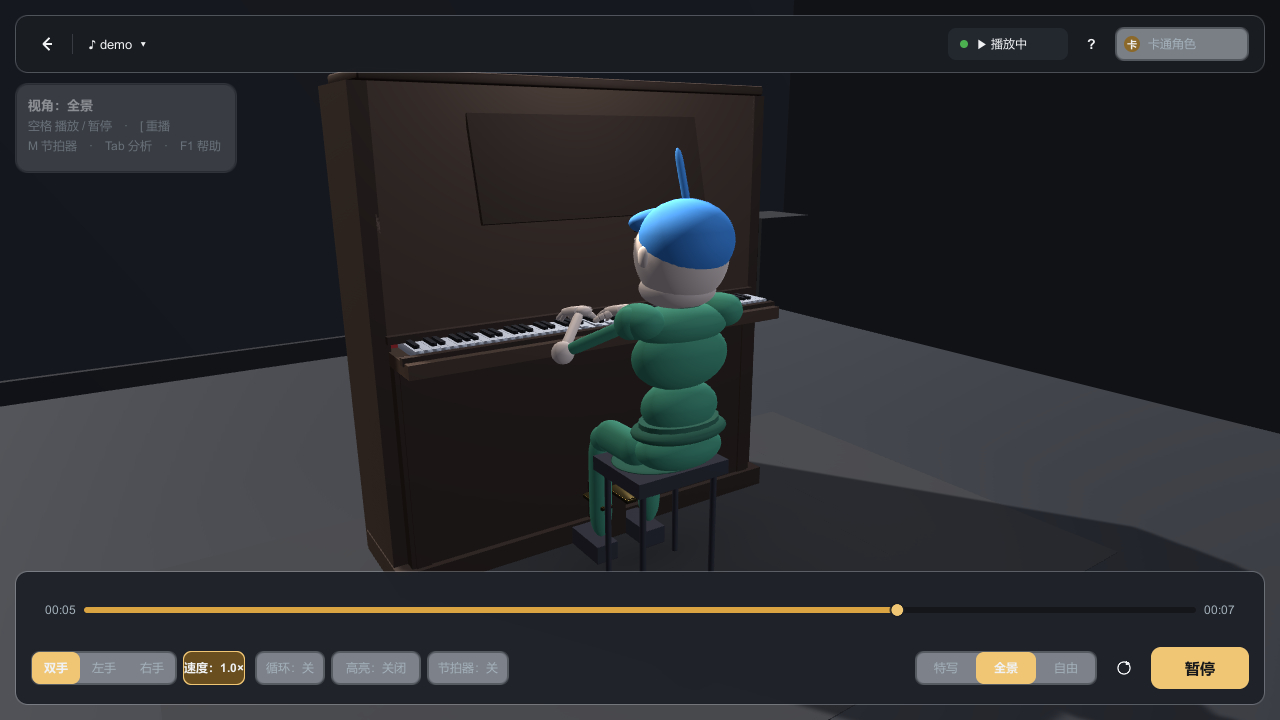
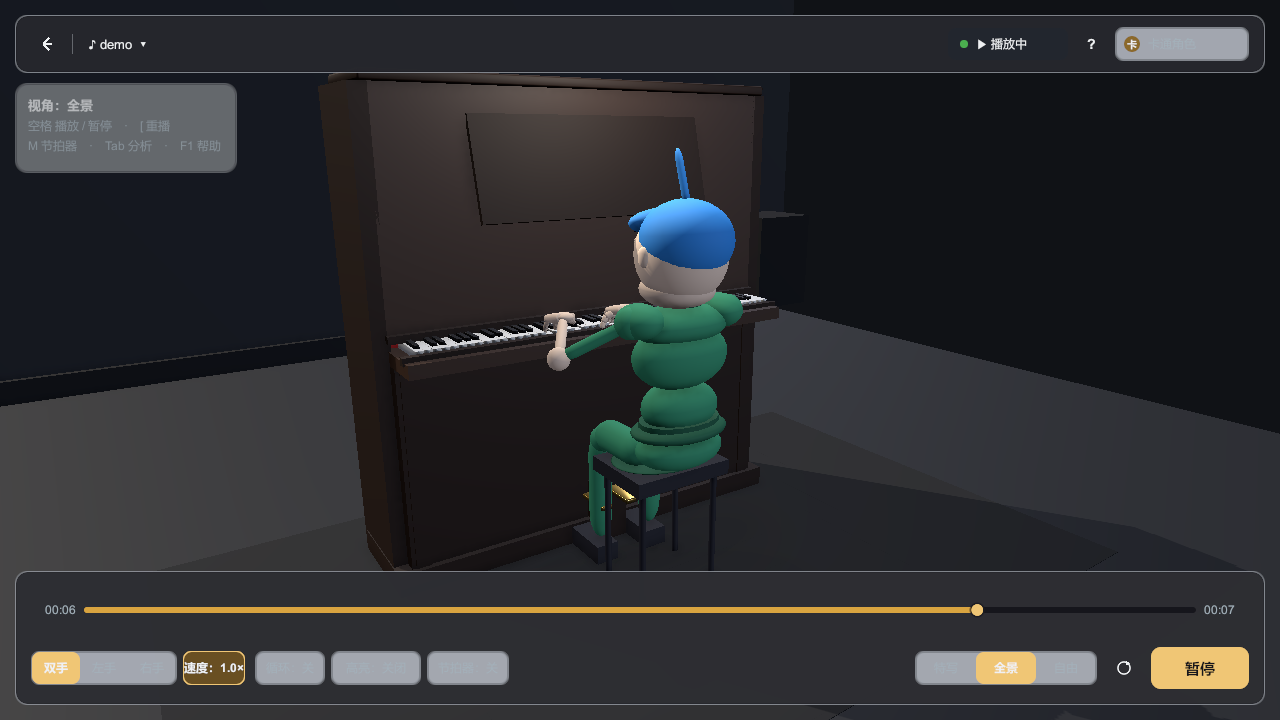
feat(render): 反射探针 + Trilight 环境光 + 琴漆光泽与曝光回调（写实化批次 5）
反射探针（PianoSceneEnvironment.BuildReflectionProbe）：
- 一次渲染（RenderProbe，ViaScripting + AllFacesAtOnce + 128² + HDR），
  场景静态（钢琴/地面/背景板都不动，角色不参与反射），不逐帧更新
- boxProjection 让平面反射方向随位置变化，避免「金属贴纸」感
- 探针中心 (0, 0.85, -0.15)、尺寸 (3.2, 2.0, 2.6)，覆盖琴体与背景板
- 场景无 skybox → SolidColor 中性冷色清屏，防止探针采到纯黑让琴漆发死
- 画质分档：只在 High 档启用，且仅在「从关到开」时渲染一次（改画质不重跑立方体渲染）
- -batchmode / 无图形设备安全跳过（TryRenderProbe 守卫），失败不刷错误

环境光 Flat → Trilight：天空/地平/地面三色（0.50 / 0.44 / 0.28），
单色 Flat 让所有朝上的面同样亮，空间失去上亮下暗的层次。

琴漆光泽（Pipeline 感知）：CaseWood 0.32→0.40（URP）、CaseWoodDark 0.20→0.26。
初版取 0.55 实拍过亮——URP 点光是物理单位（1/d²），在琴体上半板打出黄斑。

曝光回调（实拍三轮迭代，20 张基线在 Linear+URP 下重采入库）：
- URP 点光按 UrpPointLightScale=0.42 缩放（0.78→0.33）；ApplyQuality 重写强度时
  用缩放后的 _keyLightIntensity，否则每档都会被覆盖回原值
- Bloom 阈值 1.1→1.3、强度 0.35→0.22（琴漆高光不再糊成光斑）
- 地面反照率 0.105→0.135、背景板 0.125→0.150（欠曝补偿），仍保持低对比背景

未做（诚实记录）：程序化贴图（胡桃木纹/象牙微纹理/红绒）——程序化网格共享顶点
（顶点预算 ≤64 的既有约束），无 UV；要贴图需拆顶点（破坏倒角柔性高光）或写三平面
着色器，风险收益比不划算。改由反射探针 + 琴漆光泽承担写实感。

验证：EditMode 468/468；PlayMode 124 通过 / 0 失败 / 5 跳过；
--visual 三轮全部通过，20 张截图重采，人工目视确认无粉材质、无过曝、无白模。

diff --git a/Assets/Scripts/Piano/PianoSceneEnvironment.cs b/Assets/Scripts/Piano/PianoSceneEnvironment.cs
@@ -46,11 +46,11 @@ namespace PianoTeacher3D.Piano
         private const float FloorY = -0.03f;
         private const float FloorZ = 0.2f;
         private static readonly Vector3 FloorScale = new Vector3(6f, 0.06f, 6f);
-        private static readonly Color FloorColor = new Color(0.105f, 0.115f, 0.135f);
+        private static readonly Color FloorColor = new Color(0.135f, 0.145f, 0.165f);
         private const float FloorSmoothness = 0.25f; // 轻微粗糙度，避免地板成为镜面
 
         // —— 背景远景：低饱和、低对比的素色板，放在琴体后方足够远（相机为 +Z 侧，故背景在 -Z）——
-        private static readonly Color BackdropColor = new Color(0.125f, 0.132f, 0.152f);
+        private static readonly Color BackdropColor = new Color(0.150f, 0.160f, 0.180f);
         private const float BackdropSmoothness = 0.10f;
 
         // —— 受控装饰（共 3 个，全部为极简体块、低对比，不抢教学焦点）——
@@ -79,17 +79,22 @@ namespace PianoTeacher3D.Piano
         private const float RimIntensity = 0.28f;
         private static readonly Vector3 RimEuler = new Vector3(33f, 41f, 0f);
 
-        // —— 键盘上方点光：保留既有作用（提升琴键与手部可读性），位置 / 范围 / 强度与基线一致 ——
+        // —— 键盘上方点光：保留既有作用（提升琴键与手部可读性），位置 / 范围与基线一致 ——
         //    强度由 1.1 降到 0.78：该灯位于人物头顶正上方，过强会把鼻梁、眼窝、下颌的阴影全部抹平，
         //    脸变成一个没有起伏的亮块。降低后仍足以照亮琴键与手部。
+        //    写实化批次 5：URP 的点光是物理单位（1/d² 衰减 + 平滑收边），同等数值比内置管线亮得多，
+        //    实拍会把琴体上半板打成一块黄斑并连带地面过曝 → URP 下再乘 UrpPointLightScale。
         private static readonly Color KeyLightColor = new Color(1f, 0.97f, 0.92f);
         private const float KeyLightIntensity = 0.78f;
+        private const float UrpPointLightScale = 0.42f;
         private const float KeyLightRange = 2.4f;
         private static readonly Vector3 KeyLightLocalPosition = new Vector3(0f, 1.65f, 0.35f);
 
-        // —— 后处理参数（写实化批次 2；数值原则：轻微，不抢教学焦点，ACIES 主导观感）——
-        private const float BloomThreshold = 1.1f;     // 高光阈值：只让琴漆高光 / 灯光呼吸，不过曝
-        private const float BloomIntensityHigh = 0.35f; // High 档强度（Standard 档归零）
+        // —— 后处理参数（写实化批次 2；数值原则：轻微，不抢教学焦点，ACES 主导观感）——
+        //    写实化批次 5 实拍回调：阈值 1.1 / 强度 0.35 在琴漆高光上仍会糊成光斑，
+        //    收到 1.3 / 0.22 —— 只让最强的灯芯与黄铜踏板轻微呼吸。
+        private const float BloomThreshold = 1.3f;     // 高光阈值：只让琴漆高光 / 灯光呼吸，不过曝
+        private const float BloomIntensityHigh = 0.22f; // High 档强度（Standard 档归零）
         private const float BloomScatter = 0.55f;
         private const float VignetteIntensity = 0.18f; // 微暗角：聚焦键盘区，极轻
         private const float VignetteSmoothness = 0.4f;
@@ -129,7 +134,9 @@ namespace PianoTeacher3D.Piano
         // ==================== 内部状态 ====================
 
         private Transform _root;
-
+        private ReflectionProbe _reflectionProbe;
+        /// <summary>实际写入点光的强度（按管线缩放后；ApplyQuality 每档都会重写，必须用这个值）。</summary>
+        private float _keyLightIntensity;
         // —— 后处理 Volume（写实化批次 2）：ACES 色调映射 / Bloom / 微暗角 / 色彩微调 ——
         private Volume _postVolume;
         private VolumeProfile _postProfile;
@@ -173,6 +180,7 @@ namespace PianoTeacher3D.Piano
             {
                 BuildGeometry();
                 BuildLights();
+                BuildReflectionProbe();
                 BuildPostProcessVolume();
                 _built = true;
             }
@@ -224,7 +232,7 @@ namespace PianoTeacher3D.Piano
             {
                 KeyLight.enabled = true; // 教学下限：任何档位都不得关闭键盘点光
                 KeyLight.shadows = LightShadows.None;
-                KeyLight.intensity = KeyLightIntensity;
+                KeyLight.intensity = _keyLightIntensity > 0f ? _keyLightIntensity : KeyLightIntensity;
             }
 
             // 环境遮蔽观感：内置管线无后处理栈 → 只切换贴地极淡暗色渐变薄片（近似，不是真实 AO）
@@ -237,6 +245,76 @@ namespace PianoTeacher3D.Piano
             {
                 _bloom.intensity.Override(quality.Tier == QualityTier.High ? BloomIntensityHigh : 0f);
             }
+
+            // 反射探针按档开关（写实化批次 5）：High 档启用并渲染一次；Standard 档关闭省开销。
+            // 只在「从关到开」时渲染，避免每次改画质都重跑 6 面立方体渲染。
+            if (_reflectionProbe != null)
+            {
+                bool wantProbe = quality.Tier == QualityTier.High;
+                if (wantProbe && !_reflectionProbe.enabled)
+                {
+                    _reflectionProbe.enabled = true;
+                    TryRenderProbe();
+                }
+                else if (!wantProbe && _reflectionProbe.enabled)
+                {
+                    _reflectionProbe.enabled = false;
+                }
+            }
+        }
+
+        /// <summary>
+        /// 渲染一次反射探针。批处理 / 无图形设备时安全跳过（<c>-nographics</c> 下渲染会失败并刷警告），
+        /// 失败不影响任何逻辑——反射缺失只是观感差一点，不影响琴键与指标。
+        /// </summary>
+        private void TryRenderProbe()
+        {
+            if (_reflectionProbe == null) return;
+            if (!Application.isPlaying || Application.isBatchMode) return;
+            try
+            {
+                _reflectionProbe.RenderProbe();
+            }
+            catch (System.Exception ex)
+            {
+                Debug.LogWarning($"[PianoSceneEnvironment] 反射探针渲染失败（不影响功能）：{ex.Message}");
+            }
+        }
+
+        /// <summary>
+        /// 反射探针（写实化批次 5）：琴漆面板与黄铜踏板的环境反射来源。
+        /// <para>
+        /// 只渲染一次（<c>RenderProbe</c>），不逐帧更新——钢琴 / 地面 / 背景板都是静态的，
+        /// 场景没有会移动的反射体（角色不参与反射：探针盒只覆盖琴体一侧，教学场景也不需要倒影）。
+        /// 盒投影（boxProjection）让平面上的反射方向随位置变化，避免「整块金属贴纸」的假感。
+        /// </para>
+        /// <para>
+        /// 画质分档：只在 High 档启用（Standard 档关掉，省下一次 128² 立方体渲染）；
+        /// 开关逻辑在 <see cref="ApplyQuality"/>，此处只负责创建。
+        /// </para>
+        /// </summary>
+        private void BuildReflectionProbe()
+        {
+            var go = new GameObject("SceneReflectionProbe");
+            go.transform.SetParent(transform, false);
+            // 探针中心略高于琴体中心、向琴体一侧（-Z）偏：把琴首与背景板都纳入反射
+            go.transform.localPosition = new Vector3(0f, 0.85f, -0.15f);
+
+            var probe = go.AddComponent<ReflectionProbe>();
+            probe.mode = UnityEngine.Rendering.ReflectionProbeMode.Realtime;
+            probe.refreshMode = UnityEngine.Rendering.ReflectionProbeRefreshMode.ViaScripting;
+            probe.timeSlicingMode = UnityEngine.Rendering.ReflectionProbeTimeSlicingMode.AllFacesAtOnce;
+            probe.resolution = 128;
+            probe.hdr = true;
+            probe.importance = 1;
+            probe.boxProjection = true;
+            probe.size = new Vector3(3.2f, 2.0f, 2.6f);
+            // 场景没有 skybox：用中性冷色清屏，避免探针采到纯黑导致琴漆发死
+            probe.clearFlags = UnityEngine.Rendering.ReflectionProbeClearFlags.SolidColor;
+            probe.backgroundColor = new Color(0.30f, 0.32f, 0.38f);
+            probe.enabled = false;   // 由 ApplyQuality 按档位开启
+
+            _reflectionProbe = probe;
         }
 
         /// <summary>
@@ -405,10 +483,15 @@ namespace PianoTeacher3D.Piano
 
         private void BuildLights()
         {
+            // URP 点光按物理单位衰减，同等强度比内置亮得多（实测琴体上半板被打成黄斑），
+            // 因此只对点光做管线感知缩放；三盏平行光语义一致，不动。
+            bool srp = UnityEngine.Rendering.GraphicsSettings.currentRenderPipeline != null;
+            _keyLightIntensity = srp ? KeyLightIntensity * UrpPointLightScale : KeyLightIntensity;
+
             MainLight = CreateDirectional("MainLight", MainLightColor, MainLightIntensity, MainLightEuler);
             FillLight = CreateDirectional("FillLight", FillColor, FillIntensity, FillEuler);
             RimLight = CreateDirectional("RimLight", RimColor, RimIntensity, RimEuler);
-            KeyLight = CreatePoint("KeyLight", KeyLightColor, KeyLightIntensity, KeyLightRange, KeyLightLocalPosition);
+            KeyLight = CreatePoint("KeyLight", KeyLightColor, _keyLightIntensity, KeyLightRange, KeyLightLocalPosition);
         }
 
         private Light CreateDirectional(string name, Color color, float intensity, Vector3 euler)

diff --git a/Assets/Scripts/Piano/PianoKeyMap.cs b/Assets/Scripts/Piano/PianoKeyMap.cs
@@ -254,8 +254,13 @@ namespace PianoTeacher3D.Piano
             c.SetParent(transform, false);
             _caseRoot = c;
 
-            var wood = CreateMaterial("CaseWood", new Color(0.225f, 0.152f, 0.110f), 0.00f, 0.32f);      // 胡桃木清漆
-            var woodDark = CreateMaterial("CaseWoodDark", new Color(0.150f, 0.098f, 0.074f), 0.00f, 0.20f); // 哑光深木
+            // 写实化批次 5：琴漆（URP + 反射探针）提高 smoothness 才有清漆反射；
+            // 内置管线没有探针且场景无 skybox，保持原值避免「灰塑料」。
+            // 0.55 实拍过亮（点光在琴体上半板打出黄斑），收到 0.40：仍有清漆高光但不过曝。
+            bool srp = UnityEngine.Rendering.GraphicsSettings.currentRenderPipeline != null;
+            float lacquerSmoothness = srp ? 0.40f : 0.32f;
+            var wood = CreateMaterial("CaseWood", new Color(0.225f, 0.152f, 0.110f), 0.00f, lacquerSmoothness);  // 胡桃木清漆
+            var woodDark = CreateMaterial("CaseWoodDark", new Color(0.150f, 0.098f, 0.074f), 0.00f, srp ? 0.26f : 0.20f); // 哑光深木（仍远低于清漆）
             var felt = CreateMaterial("CaseFelt", new Color(0.72f, 0.14f, 0.14f), 0.00f, 0.05f);          // 键盘后挡红绒
             var brass = CreateMaterial("PedalMetal", new Color(0.62f, 0.50f, 0.24f), 0.85f, 0.72f);       // 黄铜踏板
 

diff --git a/Assets/Scripts/Core/LessonSessionController.cs b/Assets/Scripts/Core/LessonSessionController.cs
@@ -511,8 +511,13 @@ namespace PianoTeacher3D.Core
             }
             cam.clearFlags = CameraClearFlags.SolidColor;
             cam.backgroundColor = PianoTeacher3D.UI.UITheme.SceneBg;
-            RenderSettings.ambientMode = UnityEngine.Rendering.AmbientMode.Flat;
-            RenderSettings.ambientLight = new Color(0.38f, 0.40f, 0.47f);
+            // 环境光改三色梯度（写实化批次 5）：Flat 单色会让所有朝上的面同样亮，
+            // 空间失去「上亮下暗」的自然过渡。Trilight 用天空 / 地平 / 地面三色，
+            // 配合批次 2 的 Linear + ACES，墙面与琴体侧面才有层次。
+            RenderSettings.ambientMode = UnityEngine.Rendering.AmbientMode.Trilight;
+            RenderSettings.ambientSkyColor = new Color(0.50f, 0.53f, 0.61f);   // 天空：偏冷的顶光
+            RenderSettings.ambientEquatorColor = new Color(0.44f, 0.45f, 0.50f); // 地平：中性
+            RenderSettings.ambientGroundColor = new Color(0.28f, 0.28f, 0.31f);  // 地面反射：暗偏暖
 
             _camera = gameObject.AddComponent<CameraModeController>();
             _camera.Initialize(cam, _avatar, _keyMap);

diff --git a/Docs/screenshots/manifest.md b/Docs/screenshots/manifest.md
@@ -5,7 +5,7 @@
 > 对应文档：方案 **11.2 视觉回归**（10 个固定截图/场景用例）、**11.3/11.4 验收与自动化**、
 > **15 发布前检查清单**；审查 **3.2 视角可用性**、**6.1 画面基线组合 V01–V09**、**6.2 相机验收清单**。
 
-- 生成时间：2026-10-20 13:51:46
+- 生成时间：2026-10-31 19:32:52
 - 生成主机 Unity 版本：2022.3.22f1c1
 - 项目版本锁定值：2022.3.22f1c1（来源 ProjectSettings/ProjectVersion.txt）
 - 运行平台 / 图形设备：WindowsEditor / Direct3D11
@@ -25,24 +25,24 @@
 |---|---|---|---|---|---|---|---|---|---|---|
 | 01_full.png | 方案 11.2-2 | 写实女性（索引 0） | demo | 0.00 | 全景（Mode=Full, ModeLabel=全景）自由观察=False | 640×480（请求 1280×720） | 2022.3.22f1c1 | 2022.3.22f1c1 | 标准全景：键盘完整、低音端无遮挡、人物完整入画 | — |
 | 02_closeup.png | 方案 11.2-3 | 写实女性（索引 0） | demo | 0.00 | 手部特写（Mode=Closeup, ModeLabel=手部特写）自由观察=False | 640×480（请求 1280×720） | 2022.3.22f1c1 | 2022.3.22f1c1 | 手部特写（白键旋律）：掌心、指尖与相应琴键同时可见 | 高亮默认关闭，特写按活动手范围取景 |
-| 03_playing.png | 方案 11.2-2 | 写实女性（索引 0） | demo | 3.02 | 全景（Mode=Full, ModeLabel=全景）自由观察=False | 640×480（请求 1280×720） | 2022.3.22f1c1 | 2022.3.22f1c1 | 播放中全景：琴键动作与高亮同步、人物无穿模 | — |
-| 04_practice_left.png | 方案 11.2-6 | 写实女性（索引 0） | demo | 4.55 | 全景（Mode=Full, ModeLabel=全景）自由观察=False | 640×480（请求 1280×720） | 2022.3.22f1c1 | 2022.3.22f1c1 | 分手练习开启：相机聚焦活动手 | — |
-| 05_avatar_man.png | 方案 11.2-8 | 写实男性（索引 1） | demo | 6.57 | 全景（Mode=Full, ModeLabel=全景）自由观察=False | 640×480（请求 1280×720） | 2022.3.22f1c1 | 2022.3.22f1c1 | 不同人物切换后的同一机位：构图规律一致 | — |
+| 03_playing.png | 方案 11.2-2 | 写实女性（索引 0） | demo | 4.29 | 全景（Mode=Full, ModeLabel=全景）自由观察=False | 640×480（请求 1280×720） | 2022.3.22f1c1 | 2022.3.22f1c1 | 播放中全景：琴键动作与高亮同步、人物无穿模 | — |
+| 04_practice_left.png | 方案 11.2-6 | 写实女性（索引 0） | demo | 6.16 | 全景（Mode=Full, ModeLabel=全景）自由观察=False | 640×480（请求 1280×720） | 2022.3.22f1c1 | 2022.3.22f1c1 | 分手练习开启：相机聚焦活动手 | — |
+| 05_avatar_man.png | 方案 11.2-8 | 写实男性（索引 1） | demo | 7.50 | 全景（Mode=Full, ModeLabel=全景）自由观察=False | 640×480（请求 1280×720） | 2022.3.22f1c1 | 2022.3.22f1c1 | 不同人物切换后的同一机位：构图规律一致 | — |
 | 06_avatar_cartoon.png | 方案 11.2-8 | 卡通角色（索引 2） | demo | 7.50 | 全景（Mode=Full, ModeLabel=全景）自由观察=False | 640×480（请求 1280×720） | 2022.3.22f1c1 | 2022.3.22f1c1 | 不同人物切换后的同一机位：构图规律一致 | — |
-| V01_closeup_chord.png | 审查 6.1 V01 / 方案 11.2-4 | 写实女性（索引 0） | demo | 0.92 | 手部特写（Mode=Closeup, ModeLabel=手部特写）自由观察=False | 640×480（请求 1280×720） | 2022.3.22f1c1 | 2022.3.22f1c1 | 掌心、指尖、琴键可见；指法自然 | 曲内同时发声 4 音的中音区和弦（t=0.00s） |
-| V02_closeup_wide_leap.png | 审查 6.1 V02 / 3.2-1 | 写实女性（索引 0） | demo | 2.40 | 手部特写（Mode=Closeup, ModeLabel=手部特写）自由观察=False | 640×480（请求 1280×720） | 2022.3.22f1c1 | 2022.3.22f1c1 | 动态取景范围与阻尼：两手分开时画面不突然缩放 | 曲内 0.5s 窗口最大音域跨度 19 半音（pitch 48–67，t=1.50s）；内置示例曲音域有限，跨度不足属曲目内容限制 |
-| V03_full_arm_motion.png | 审查 6.1 V03 | 写实男性（索引 1） | demo | 6.02 | 全景（Mode=Full, ModeLabel=全景）自由观察=False | 640×480（请求 1280×720） | 2022.3.22f1c1 | 2022.3.22f1c1 | 坐姿、肩臂、完整键盘 | 曲内最大音程跳进 19 半音（t=3.50s），手臂运动在该片段最明显 |
-| V04_full_cartoon.png | 审查 6.1 V04 | 卡通角色（索引 2） | demo | 5.53 | 全景（Mode=Full, ModeLabel=全景）自由观察=False | 640×480（请求 1280×720） | 2022.3.22f1c1 | 2022.3.22f1c1 | 风格一致与取景适配 | 中等速度片段（曲目 40% 处） |
-| V05_left_hand_only.png | 审查 6.1 V05 / 3.2-3 | 写实女性（索引 0） | demo | 0.91 | 手部特写（Mode=Closeup, ModeLabel=手部特写）自由观察=False | 640×480（请求 1280×720） | 2022.3.22f1c1 | 2022.3.22f1c1 | 相机聚焦活动手 | 左手独立音型（t=0.00s） |
-| V06_right_hand_only.png | 审查 6.1 V06 / 3.2-4 | 写实女性（索引 0） | demo | 0.91 | 手部特写（Mode=Closeup, ModeLabel=手部特写）自由观察=False | 640×480（请求 1280×720） | 2022.3.22f1c1 | 2022.3.22f1c1 | 相机聚焦活动手 | 右手独立音型（t=0.00s） |
-| V07_free_orbit_paused.png | 审查 6.1 V07 | 写实女性（索引 0） | demo | 0.91 | 自由观察（Mode=Free, ModeLabel=自由观察）自由观察=True | 640×480（请求 1280×720） | 2022.3.22f1c1 | 2022.3.22f1c1 | 旋转/缩放、UI 鼠标操作边界 | 测试环境无法注入真实鼠标右键拖动：本图记录「进入自由观察 → 暂停」后的初始构图（进入时不跳变） |
-| V08_switch_settled.png | 审查 6.1 V08 | 写实女性（索引 0） | demo | 7.33 | 全景（Mode=Full, ModeLabel=全景）自由观察=False | 640×480（请求 1280×720） | 2022.3.22f1c1 | 2022.3.22f1c1 | 最终构图稳定、时间轴连续 | 播放中连续切换视角 5 次后等待 3s：IsTransitioning=True（期望 False）、时间从 4.30s 推进到 7.31s（时间轴连续） |
-| V09_closeup_loop.png | 审查 6.1 V09 | 写实女性（索引 0） | demo | 2.71 | 手部特写（Mode=Closeup, ModeLabel=手部特写）自由观察=False | 640×480（请求 1280×720） | 2022.3.22f1c1 | 2022.3.22f1c1 | 循环跳转后手位和相机不追旧目标 | A-B 循环 [2.63s, 3.23s]，IsLooping=True；等待跨越 B 点后再等 1.6s，此刻时间 2.69s |
+| V01_closeup_chord.png | 审查 6.1 V01 / 方案 11.2-4 | 写实女性（索引 0） | demo | 1.09 | 手部特写（Mode=Closeup, ModeLabel=手部特写）自由观察=False | 640×480（请求 1280×720） | 2022.3.22f1c1 | 2022.3.22f1c1 | 掌心、指尖、琴键可见；指法自然 | 曲内同时发声 4 音的中音区和弦（t=0.00s） |
+| V02_closeup_wide_leap.png | 审查 6.1 V02 / 3.2-1 | 写实女性（索引 0） | demo | 2.60 | 手部特写（Mode=Closeup, ModeLabel=手部特写）自由观察=False | 640×480（请求 1280×720） | 2022.3.22f1c1 | 2022.3.22f1c1 | 动态取景范围与阻尼：两手分开时画面不突然缩放 | 曲内 0.5s 窗口最大音域跨度 19 半音（pitch 48–67，t=1.50s）；内置示例曲音域有限，跨度不足属曲目内容限制 |
+| V03_full_arm_motion.png | 审查 6.1 V03 | 写实男性（索引 1） | demo | 6.56 | 全景（Mode=Full, ModeLabel=全景）自由观察=False | 640×480（请求 1280×720） | 2022.3.22f1c1 | 2022.3.22f1c1 | 坐姿、肩臂、完整键盘 | 曲内最大音程跳进 19 半音（t=3.50s），手臂运动在该片段最明显 |
+| V04_full_cartoon.png | 审查 6.1 V04 | 卡通角色（索引 2） | demo | 6.10 | 全景（Mode=Full, ModeLabel=全景）自由观察=False | 640×480（请求 1280×720） | 2022.3.22f1c1 | 2022.3.22f1c1 | 风格一致与取景适配 | 中等速度片段（曲目 40% 处） |
+| V05_left_hand_only.png | 审查 6.1 V05 / 3.2-3 | 写实女性（索引 0） | demo | 1.10 | 手部特写（Mode=Closeup, ModeLabel=手部特写）自由观察=False | 640×480（请求 1280×720） | 2022.3.22f1c1 | 2022.3.22f1c1 | 相机聚焦活动手 | 左手独立音型（t=0.00s） |
+| V06_right_hand_only.png | 审查 6.1 V06 / 3.2-4 | 写实女性（索引 0） | demo | 1.13 | 手部特写（Mode=Closeup, ModeLabel=手部特写）自由观察=False | 640×480（请求 1280×720） | 2022.3.22f1c1 | 2022.3.22f1c1 | 相机聚焦活动手 | 右手独立音型（t=0.00s） |
+| V07_free_orbit_paused.png | 审查 6.1 V07 | 写实女性（索引 0） | demo | 1.13 | 自由观察（Mode=Free, ModeLabel=自由观察）自由观察=True | 640×480（请求 1280×720） | 2022.3.22f1c1 | 2022.3.22f1c1 | 旋转/缩放、UI 鼠标操作边界 | 测试环境无法注入真实鼠标右键拖动：本图记录「进入自由观察 → 暂停」后的初始构图（进入时不跳变） |
+| V08_switch_settled.png | 审查 6.1 V08 | 写实女性（索引 0） | demo | 7.50 | 全景（Mode=Full, ModeLabel=全景）自由观察=False | 640×480（请求 1280×720） | 2022.3.22f1c1 | 2022.3.22f1c1 | 最终构图稳定、时间轴连续 | 播放中连续切换视角 5 次后等待 3s：IsTransitioning=True（期望 False）、时间从 4.69s 推进到 7.50s（时间轴连续） |
+| V09_closeup_loop.png | 审查 6.1 V09 | 写实女性（索引 0） | demo | 2.67 | 手部特写（Mode=Closeup, ModeLabel=手部特写）自由观察=False | 640×480（请求 1280×720） | 2022.3.22f1c1 | 2022.3.22f1c1 | 循环跳转后手位和相机不追旧目标 | A-B 循环 [2.63s, 3.23s]，IsLooping=True；等待跨越 B 点后再等 1.6s，此刻时间 2.65s |
 | V10_mainmenu.png | 方案 11.2-1 | 不适用（主菜单场景） | 不适用（未进入课程） | — | 不适用（主菜单场景无 CameraModeController） | 640×480（请求 1280×720） | 2022.3.22f1c1 | 2022.3.22f1c1 | 主菜单空状态可操作：导入入口可见、无曲目时不显示可播放按钮 | 曲库有 1 首示例曲 → 主菜单显示曲目卡片；空曲库态需清空 Assets/StreamingAssets/Songs 后重跑才能复现（本次未生成空状态图） |
-| V11_highlight_on.png | 方案 11.2-5 | 写实女性（索引 0） | demo | 0.37 | 全景（Mode=Full, ModeLabel=全景）自由观察=False | 640×480（请求 1280×720） | 2022.3.22f1c1 | 2022.3.22f1c1 | 颜色语义正确（暖金=预提示、左蓝/右橙=发声），且高亮不遮挡手部 | 高亮模式 Both（暖金预提示 + 蓝/橙发声）；为同时呈现两种提示，临时把预提示提前量设为 1.2s（原 0.6s，截图后还原） |
-| V12_analysis_expanded.png | 方案 11.2-7 | 写实女性（索引 0） | demo | 6.19 | 全景（Mode=Full, ModeLabel=全景）自由观察=False | 640×480（请求 1280×720） | 2022.3.22f1c1 | 2022.3.22f1c1 | 分析面板展开；动作质量默认折叠在「开发诊断」区 | 曲目分析面板展开=True、开发诊断展开=True（通过按钮 onClick 触发，未注入鼠标事件）；展开诊断后主画面仍未被过度覆盖（本次仅截图，遮挡断言见 CameraVisibilityTests 3.2-2） |
-| V13_teaching_mode.png | 新增：教学模式 / 展示模式 | 写实女性（索引 0） | demo | 1.05 | 手部特写（Mode=Closeup, ModeLabel=手部特写）自由观察=False | 640×480（请求 1280×720） | 2022.3.22f1c1 | 2022.3.22f1c1 | 教学模式：手部动画隐藏，只有被按下的琴键高亮（左手冷蓝 · 右手暖橙） | 显示模式=教学，手部可见=False，当前按下 4 个琴键、高亮 4 个琴键 |
-| V14_showcase_mode.png | 新增：教学模式 / 展示模式 | 写实女性（索引 0） | demo | 1.03 | 手部特写（Mode=Closeup, ModeLabel=手部特写）自由观察=False | 640×480（请求 1280×720） | 2022.3.22f1c1 | 2022.3.22f1c1 | 展示模式：完整手部动画（与 V13 同机位、同曲目时刻，便于逐帧对照） | 显示模式=展示，手部可见=True，当前按下 4 个琴键 |
+| V11_highlight_on.png | 方案 11.2-5 | 写实女性（索引 0） | demo | 0.44 | 全景（Mode=Full, ModeLabel=全景）自由观察=False | 640×480（请求 1280×720） | 2022.3.22f1c1 | 2022.3.22f1c1 | 颜色语义正确（暖金=预提示、左蓝/右橙=发声），且高亮不遮挡手部 | 高亮模式 Both（暖金预提示 + 蓝/橙发声）；为同时呈现两种提示，临时把预提示提前量设为 1.2s（原 0.6s，截图后还原） |
+| V12_analysis_expanded.png | 方案 11.2-7 | 写实女性（索引 0） | demo | 7.09 | 全景（Mode=Full, ModeLabel=全景）自由观察=False | 640×480（请求 1280×720） | 2022.3.22f1c1 | 2022.3.22f1c1 | 分析面板展开；动作质量默认折叠在「开发诊断」区 | 曲目分析面板展开=True、开发诊断展开=True（通过按钮 onClick 触发，未注入鼠标事件）；展开诊断后主画面仍未被过度覆盖（本次仅截图，遮挡断言见 CameraVisibilityTests 3.2-2） |
+| V13_teaching_mode.png | 新增：教学模式 / 展示模式 | 写实女性（索引 0） | demo | 1.04 | 手部特写（Mode=Closeup, ModeLabel=手部特写）自由观察=False | 640×480（请求 1280×720） | 2022.3.22f1c1 | 2022.3.22f1c1 | 教学模式：手部动画隐藏，只有被按下的琴键高亮（左手冷蓝 · 右手暖橙） | 显示模式=教学，手部可见=False，当前按下 4 个琴键、高亮 4 个琴键 |
+| V14_showcase_mode.png | 新增：教学模式 / 展示模式 | 写实女性（索引 0） | demo | 1.04 | 手部特写（Mode=Closeup, ModeLabel=手部特写）自由观察=False | 640×480（请求 1280×720） | 2022.3.22f1c1 | 2022.3.22f1c1 | 展示模式：完整手部动画（与 V13 同机位、同曲目时刻，便于逐帧对照） | 显示模式=展示，手部可见=True，当前按下 4 个琴键 |
 
 ## 如何新增 / 更新基线
 

diff --git a/Docs/perf/sampling.md b/Docs/perf/sampling.md
@@ -107,7 +107,7 @@
 <!-- SECTION:resource-load:BEGIN -->
 ### 资源加载采样（方案 11.4「资源加载耗时和失败率采样」）
 
-- 时间：2026-10-31 19:09:29
+- 时间：2026-10-31 19:30:51
 - Unity：2022.3.22f1c1
 - 图形设备：Null（Null Device）
 - 分辨率：640×480 @ 96 dpi
@@ -115,11 +115,11 @@
 - 平台 / 系统：WindowsEditor / Windows 11  (10.0.26200) 64bit
 
 - 曲目目录：`StreamingAssets/Songs`；曲目数：1
-- 最慢单曲：24.0 ms；失败数：0
+- 最慢单曲：26.6 ms；失败数：0
 
 | 曲目 | 加载耗时 (ms) | 结果 |
 |---|---|---|
-| demo.mid | 24.0 | 成功 |
+| demo.mid | 26.6 | 成功 |
 
 **口径说明**：耗时用 `System.Diagnostics.Stopwatch` 包裹 `LessonSessionController.LoadSong`，包含校验 + 解析 + 一次性提交；示例曲为毫秒级，5 秒上限只用于捕获卡死，不代表目标设备上的加载性能。
 <!-- SECTION:resource-load:END -->

diff --git a/Docs/perf/environments.md b/Docs/perf/environments.md
@@ -31,7 +31,7 @@
 <!-- SECTION:local-check:BEGIN -->
 ### 本机自检（由 Environment_Matrix_Checklist 自动写入）
 
-- 时间：2026-10-31 19:07:52
+- 时间：2026-10-31 19:29:11
 - Unity：2022.3.22f1c1
 - 图形设备：Null（Null Device）
 - 分辨率：640×480 @ 96 dpi
